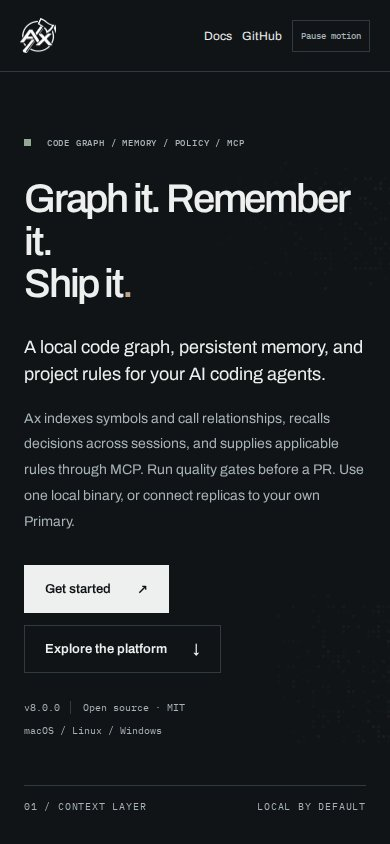
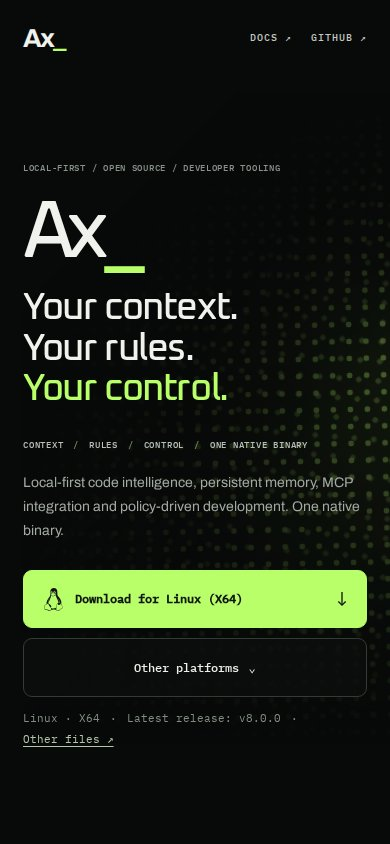
fix(site): finish responsive design and refresh homepage screenshots

diff --git a/site/src/styles/minimal-home.css b/site/src/styles/minimal-home.css
@@ -33,7 +33,7 @@ body.ax-landing{--ax-bg:#080a09;--ax-ink:#f0f3ed;--ax-muted:#a3aaa2;--ax-dim:#6f
 .ax-landing .ax-download-primary .ax-download-glyph{margin-left:auto;font-size:20px;font-weight:400}
 .ax-landing .ax-other-platforms{border:1px solid #343b35;display:flex;align-items:center;justify-content:center;gap:9px;min-width:175px;padding:0 16px;border-radius:9px;background:rgba(12,15,13,.76);color:#edf0e9;font:500 12px/1.4 'IBM Plex Mono',monospace;white-space:nowrap;transition:border-color .2s ease}
 .ax-landing .ax-other-platforms:hover{border-color:#85a769}
-.ax-landing .ax-download-caption{display:flex;gap:10px;align-items:center;margin:13px 0 0;font:11px/1.5 'IBM Plex Mono',monospace;color:#828e81}
+.ax-landing .ax-download-caption{display:flex;flex-wrap:wrap;gap:4px 10px;align-items:center;margin:13px 0 0;font:11px/1.5 'IBM Plex Mono',monospace;color:#828e81}
 .ax-landing .ax-download-caption a{color:#b4c6a9;text-decoration:underline;text-underline-offset:3px}
 .ax-landing .ax-download-caption a:hover{color:var(--ax-lime)}
 .ax-landing .ax-download-controls{position:relative}
@@ -66,10 +66,10 @@ body.ax-landing{--ax-bg:#080a09;--ax-ink:#f0f3ed;--ax-muted:#a3aaa2;--ax-dim:#6f
 @keyframes ax-moire-interference{from{transform:translate3d(-2.4%,1.2%,0) rotate(4.4deg) scale(1.04)}to{transform:translate3d(1.2%,-.8%,0) rotate(5.35deg) scale(1.045)}}
 @keyframes ax-moire-breathe{from{opacity:.46}to{opacity:1}}
 .ax-landing .ax-skip{position:fixed;top:-100px;left:12px;z-index:20;background:var(--ax-lime);color:#101510;padding:10px}.ax-landing .ax-skip:focus{top:10px}
-@media(min-width:900px){html:has(body.ax-landing),body.ax-landing{height:100%;overflow:hidden}.ax-landing .ax-page{height:100svh;min-height:620px}.ax-landing .ax-content{max-height:calc(100svh - 155px)} }
+@media(min-width:900px){html:has(body.ax-landing),body.ax-landing{min-height:100%}.ax-landing .ax-page{min-height:100svh} }
 @media(min-width:900px) and (max-height:790px){.ax-landing .ax-header{height:64px;min-height:64px}.ax-landing .ax-footer{min-height:44px}.ax-landing .ax-eyebrow{margin-bottom:16px}.ax-landing .ax-display-word{font-size:clamp(60px,6.8vw,95px);margin-bottom:9px}.ax-landing .ax-headline{font-size:clamp(33px,4.15vw,60px)}.ax-landing .ax-feature-strip{margin-top:20px}.ax-landing .ax-explainer{margin-top:15px}.ax-landing .ax-download{margin-top:20px}.ax-landing .ax-download-primary{min-height:53px}}
 @media(max-width:899px){.ax-landing .ax-page{min-height:100svh;overflow:hidden}.ax-landing .ax-header{height:75px}.ax-landing .ax-main{padding:62px 27px 90px;align-items:start}.ax-landing .ax-content{width:min(650px,100%)}.ax-landing .ax-moire{inset:2% -18% 18% 16%;opacity:.5}.ax-landing .ax-moire::after{background:linear-gradient(90deg,#080a09 0%,transparent 78%),linear-gradient(180deg,#080a09 0%,transparent 40%,#080a09 100%)}}
-@media(max-width:600px){.ax-landing .ax-header{height:65px;padding-inline:23px}.ax-landing .ax-wordmark{font-size:26px}.ax-landing .ax-navigation{gap:19px}.ax-landing .ax-navigation a{font-size:10px}.ax-landing .ax-main{padding:69px 23px 70px}.ax-landing .ax-eyebrow{font-size:9px;margin-bottom:25px;letter-spacing:.08em}.ax-landing .ax-display-word{font-size:81px;margin-bottom:20px}.ax-landing .ax-headline{font-size:clamp(38px,9.6vw,58px)}.ax-landing .ax-feature-strip{gap:9px 10px;margin-top:29px;font-size:9px}.ax-landing .ax-feature-strip span+span::before{margin-right:10px}.ax-landing .ax-explainer{font-size:14px;margin-top:18px}.ax-landing .ax-download{margin-top:28px}.ax-landing .ax-download-row{flex-direction:column}.ax-landing .ax-download-primary{min-height:58px;font-size:12px;white-space:normal;padding:0 18px;gap:10px}.ax-landing .ax-other-platforms{min-height:48px}.ax-landing .ax-platform-panel{width:100%;position:relative;bottom:auto;right:auto;margin:12px 0 0}.ax-landing .ax-download-controls{width:100%}.ax-landing .ax-footer{padding:20px 23px;flex-wrap:wrap;gap:9px;font-size:9px}.ax-landing .ax-footer .ax-footer-links{gap:16px}.ax-landing .ax-moire{inset:10% -30% 18% 6%;opacity:.44}}
+@media(max-width:600px){.ax-landing .ax-header{height:65px;padding-inline:23px}.ax-landing .ax-wordmark{font-size:26px}.ax-landing .ax-navigation{gap:19px}.ax-landing .ax-navigation a{font-size:10px}.ax-landing .ax-main{padding:69px 23px 70px}.ax-landing .ax-eyebrow{font-size:9px;margin-bottom:25px;letter-spacing:.08em}.ax-landing .ax-display-word{font-size:81px;margin-bottom:20px}.ax-landing .ax-headline{font-size:clamp(38px,9.6vw,58px)}.ax-landing .ax-feature-strip{gap:9px 10px;margin-top:29px;font-size:9px}.ax-landing .ax-feature-strip span+span::before{margin-right:10px}.ax-landing .ax-explainer{font-size:14px;margin-top:18px}.ax-landing .ax-download{margin-top:28px}.ax-landing .ax-download-row{flex-direction:column}.ax-landing .ax-download-primary{min-height:58px;font-size:12px;white-space:normal;padding:0 18px;gap:10px}.ax-landing .ax-other-platforms{min-height:48px;width:100%}.ax-landing .ax-platform-panel{width:100%;position:relative;bottom:auto;right:auto;margin:12px 0 0}.ax-landing .ax-download-controls{width:100%}.ax-landing .ax-footer{padding:20px 23px;flex-wrap:wrap;gap:9px;font-size:9px}.ax-landing .ax-footer .ax-footer-links{gap:16px}.ax-landing .ax-moire{inset:10% -30% 18% 6%;opacity:.44}}
 @media(prefers-reduced-motion:reduce){.ax-landing .ax-moire-layer,.ax-landing .ax-moire-haze{animation:none!important}.ax-landing *, .ax-landing *::before,.ax-landing *::after{scroll-behavior:auto!important;transition:none!important}}
 html[data-ax-motion='paused'] .ax-landing .ax-moire-layer,html[data-ax-motion='paused'] .ax-landing .ax-moire-haze{animation-play-state:paused!important}
 /* Keep the platform selector aligned with the primary download control. */

diff --git a/site/src/content/docs/getting-started/installation.md b/site/src/content/docs/getting-started/installation.md
@@ -58,9 +58,9 @@ Set `AX_UPGRADE_ARCHIVE` to point at a specific zip if needed.
 
 ax is a **native Rust binary** — no Node.js required for normal use.
 
-The homepage puts installation in the first screen. It detects your desktop OS and selects the command and guide. Select another platform to switch both install panels; phone and tablet browsers ask which development computer you use. The Copy button copies the selected command.
+The homepage detects your desktop OS and offers the matching native binary. Open **Other platforms** to choose macOS, Linux, Windows or WSL2 and select ARM64 or x64. Phone and tablet browsers ask which development computer you use. On a Mac, choose ARM64 for Apple Silicon or x64 for Intel. The **Install guide** link opens these instructions if you prefer the command-line installer.
 
-![Ax homepage with the OS selector and installation command](/screenshots/home-install-desktop.png)
+![Ax homepage with the native download button and platform selector](/screenshots/home-install-desktop.png)
 
 [View the mobile installer](/screenshots/home-install-mobile.png).
 
